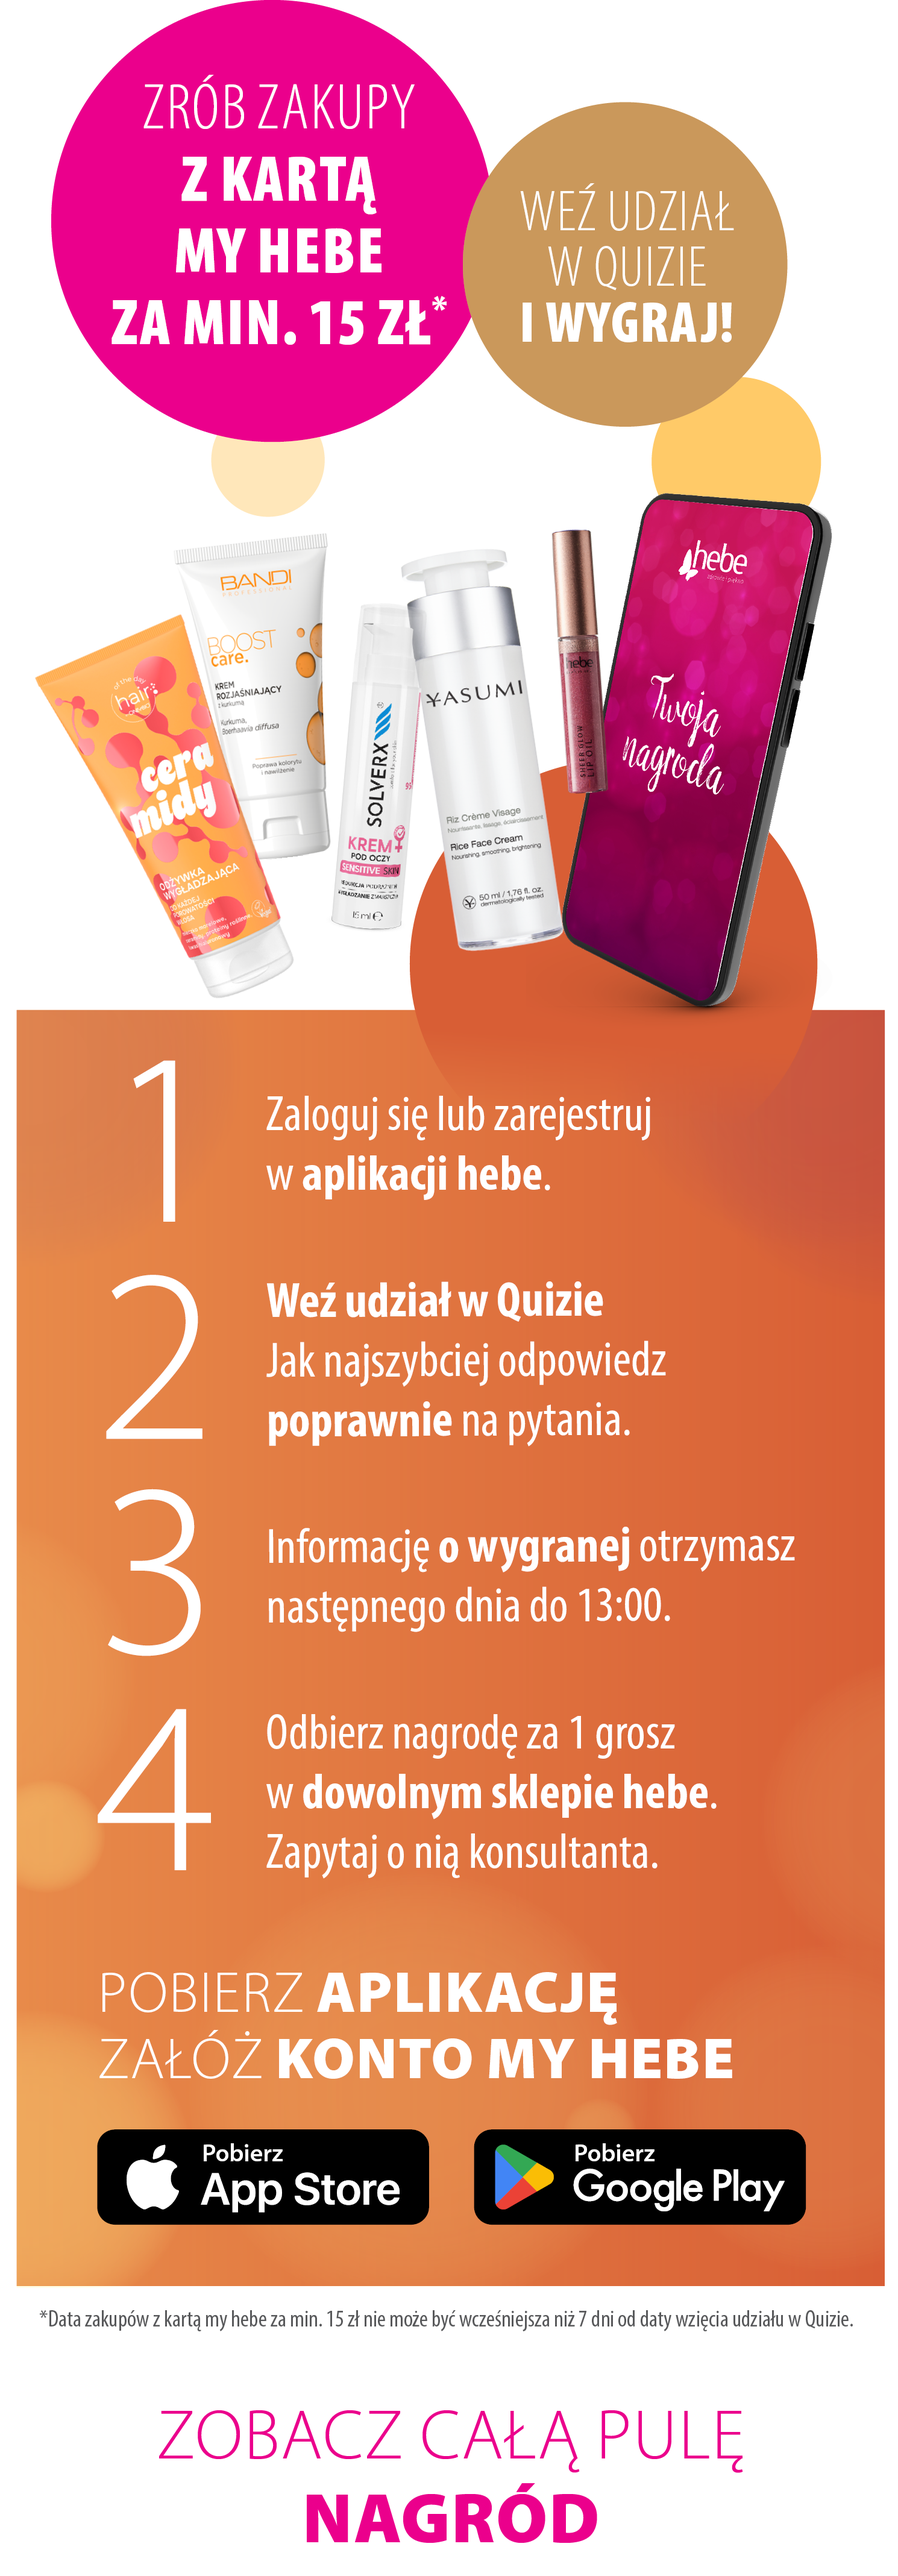
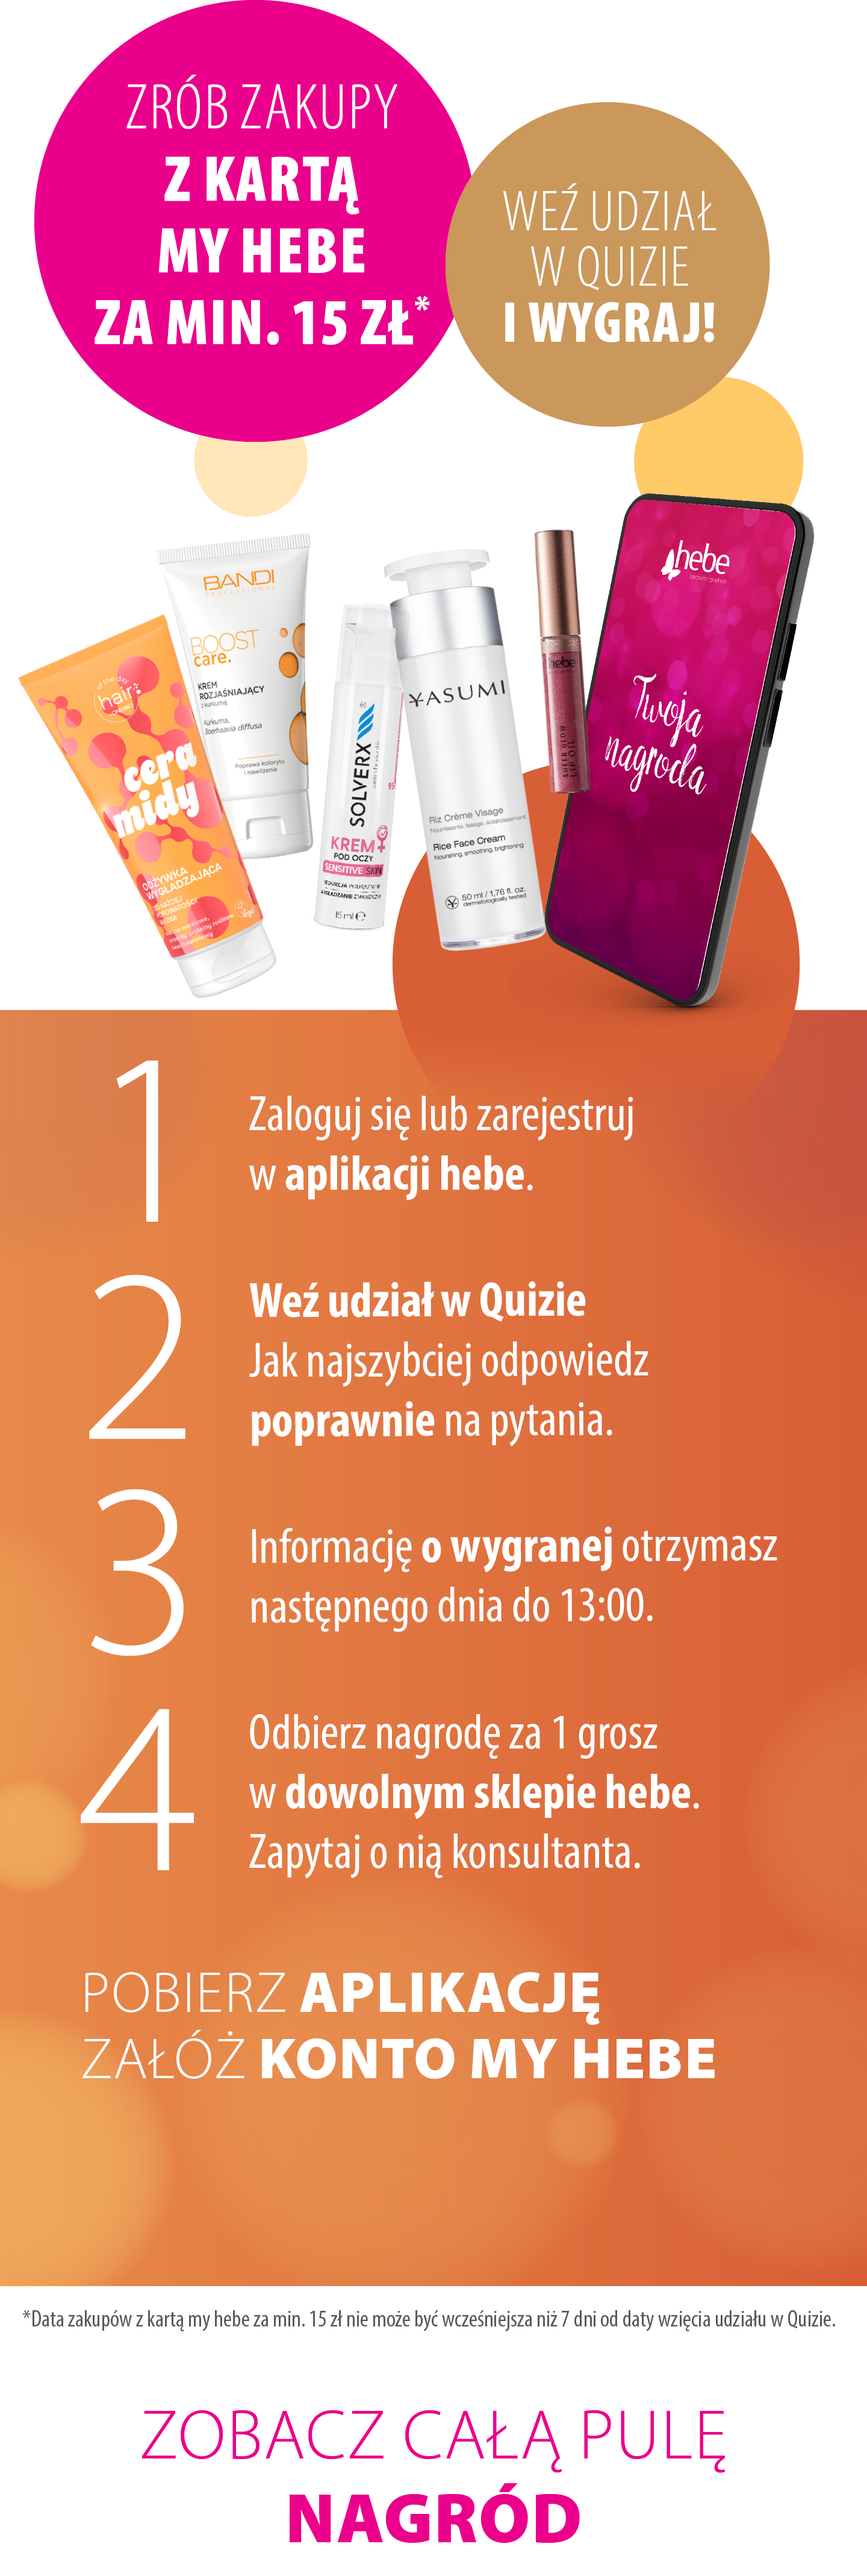
all images added to slide show, prepared to desktop and mobile

diff --git a/landingPageQuiz.html b/landingPageQuiz.html
@@ -8,6 +8,14 @@
     <div class="mainBox">
     </div>
     <div class="secondBox">
+        <div class="downloadButtons">
+            <a href="https://apps.apple.com/pl/app/hebe-zdrowie-i-pi%C4%99kno/id1502417997?l=pl">
+            <button id="dwn1btn"></button>
+            </a>
+            <a href="https://play.google.com/store/apps/details?id=pl.hebe.app&pli=1">
+            <button id="dwn2btn"></button>
+            </a>
+        </div>
     </div>
     <div class="slideshow-container">
         <div class="mySlides fade">
@@ -33,9 +41,111 @@
           <div class="mySlides fade">
             <img src="./images/plansze produktowe_QUIZ6.png" style="width:100%">
           </div>
+
+          <div class="mySlides fade">
+            <img src="./images/plansze produktowe_QUIZ7.png" style="width:100%">
+          </div>
+
+          <div class="mySlides fade">
+            <img src="./images/plansze produktowe_QUIZ8.png" style="width:100%">
+          </div>
+
+          <div class="mySlides fade">
+            <img src="./images/plansze produktowe_QUIZ9.png" style="width:100%">
+          </div>
+
+          <div class="mySlides fade">
+            <img src="./images/plansze produktowe_QUIZ10.png" style="width:100%" >
+          </div>
+        
+          <div class="mySlides fade">
+            <img src="./images/plansze produktowe_QUIZ11.png" style="width:100%" >
+          </div>
+        
+          <div class="mySlides fade">
+            <img src="./images/plansze produktowe_QUIZ12.png" style="width:100%">
+          </div>
+        
+          <div class="mySlides fade">
+            <img src="./images/plansze produktowe_QUIZ13.png" style="width:100%">
+          </div>
+
+          <div class="mySlides fade">
+            <img src="./images/plansze produktowe_QUIZ14.png" style="width:100%">
+          </div>
+
+          <div class="mySlides fade">
+            <img src="./images/plansze produktowe_QUIZ15.png" style="width:100%">
+          </div>
+
+          <div class="mySlides fade">
+            <img src="./images/plansze produktowe_QUIZ16.png" style="width:100%">
+          </div>
+
+          <div class="mySlides fade">
+            <img src="./images/plansze produktowe_QUIZ17.png" style="width:100%">
+          </div>
+
+          <div class="mySlides fade">
+            <img src="./images/plansze produktowe_QUIZ18.png" style="width:100%">
+          </div>
+
+          <div class="mySlides fade">
+            <img src="./images/plansze produktowe_QUIZ19.png" style="width:100%">
+          </div>
+
+          <div class="mySlides fade">
+            <img src="./images/plansze produktowe_QUIZ20.png" style="width:100%" >
+          </div>
+        
+          <div class="mySlides fade">
+            <img src="./images/plansze produktowe_QUIZ21.png" style="width:100%" >
+          </div>
+        
+          <div class="mySlides fade">
+            <img src="./images/plansze produktowe_QUIZ22.png" style="width:100%">
+          </div>
+        
+          <div class="mySlides fade">
+            <img src="./images/plansze produktowe_QUIZ23.png" style="width:100%">
+          </div>
+
+          <div class="mySlides fade">
+            <img src="./images/plansze produktowe_QUIZ24.png" style="width:100%">
+          </div>
+
+          <div class="mySlides fade">
+            <img src="./images/plansze produktowe_QUIZ25.png" style="width:100%">
+          </div>
+
+          <div class="mySlides fade">
+            <img src="./images/plansze produktowe_QUIZ26.png" style="width:100%">
+          </div>
+
+          <div class="mySlides fade">
+            <img src="./images/plansze produktowe_QUIZ27.png" style="width:100%">
+          </div>
+
+          <div class="mySlides fade">
+            <img src="./images/plansze produktowe_QUIZ28.png" style="width:100%">
+          </div>
+
+          <div class="mySlides fade">
+            <img src="./images/plansze produktowe_QUIZ29.png" style="width:100%">
+          </div>
+
+          <div class="mySlides fade">
+            <img src="./images/plansze produktowe_QUIZ30.png" style="width:100%">
+          </div>
+
+          <div class="mySlides fade">
+            <img src="./images/plansze produktowe_QUIZ31.png" style="width:100%">
+          </div>
           
           <a class="prev" onclick="plusSlides(-1)">&#10094;</a>
           <a class="next" onclick="plusSlides(1)">&#10095;</a>
+    </div>
+    <div class="footer">
     </div>
 
 </div>

diff --git a/styles.css b/styles.css
@@ -12,12 +12,16 @@ body {
 }
 
 .landingpageContainer .secondBox {
-    background-image: url('./images/lp/grafika\ 1.png');
+    background-image: url('./images/lp/grafika1.png');
     background-repeat: no-repeat;
     background-size: 100%;
-    margin: 0vw 20vw;
+    margin: 0vw 14vw;
     padding: 0;
-    height: 60vw;
+    height: 70vw;
+}
+
+.landingpageContainer .secondBox .downloadButtons {
+    display: none;
 }
 
 .landingpageContainer {box-sizing:border-box}
@@ -26,13 +30,13 @@ body {
     vertical-align: middle;
 }
 
-/* .mySlides {display: none} */
-
 .slideshow-container {
-    max-width: 60vw;
+    max-width: 72vw;
     position: relative;
     margin: auto;
     overflow: hidden;
+    display: flex;
+    justify-content: space-around;
   }
 
   .prev, .next {
@@ -40,53 +44,119 @@ body {
     position: absolute;
     top: 50%;
     width: auto;
-    margin-top: -4vw;
-    padding: 2.6vw 4vw;
+    padding: 2vw 2vw;
     color: black;
-    font-weight: bold;
-    font-size: 3vw;
+    font-size: 2vw;
     transition: 0.6s ease;
     border-radius: 20vw;
     user-select: none;
-  }
+    margin: -3.4vw 6vw;
+}
+
 
   .next {
-    right: 0;
-    border-radius: 20vw;
-  }
+    right: -7.2vw;
+}
 
-  .prev:hover, .next:hover {
-    background-color: rgba(236, 236, 236, 0.8);
-  }
+.prev {
+    left: -7.2vw;
+}
 
 .mySlides {
     display: none;
   }
 
-  .fade {
-    animation-name: fade;
-    animation-duration: 1.5s;
+  .landingpageContainer .footer {
+    background-image: url('./images/lp/stopka.png');
+    background-repeat: no-repeat;
+    background-size: 100%;
+    margin: 4vw 14vw;
+    padding: 0;
+    height: 44vw;
+}
+
+  @media only screen and (max-width: 600px) {
+    .landingpageContainer .mainBox {
+        background-image: url('./images/mobile/baner.png');
+        height: 114vw;
+    }
+
+    .landingpageContainer .secondBox {
+        background-image: url('./images/mobile/grafika1.png');
+        background-repeat: no-repeat;
+        background-size: 100%;
+        margin: 0;
+        height: 290vw;
+        display:flex;
+        justify-content: center;
+    }
+
+    .landingpageContainer .secondBox .downloadButtons {
+        display: inline-flex;
+        justify-content: center;
+        visibility: visible;
+        margin-top: 238vw;
+        margin-bottom: 40vw;
+    }
+
+    .landingpageContainer .secondBox .downloadButtons a {
+        height: 10vw;
+    }
+
+    .landingpageContainer .secondBox .downloadButtons #dwn1btn {
+        background-image: url('./images/mobile/APP_STORE.png');
+        border-radius: 0px;
+        height: 12vw;
+        width: 36vw;
+        background-size: 100%;
+        border: none;  
+        cursor: pointer;
+        background-repeat: no-repeat;
+        margin: 0vw 4vw 4vw 0;
+        background-color: transparent;
+    }
+
+    .landingpageContainer .secondBox .downloadButtons #dwn2btn {
+        background-image: url('./images/mobile/GOOGLE_PLAY.png');
+        border-radius: 0px;
+        height: 12vw;
+        width: 36vw;
+        background-size: 100%;
+        border: none;  
+        cursor: pointer;
+        background-repeat: no-repeat;
+        margin: 0vw 4vw 4vw 0;
+        background-color: transparent;
+    }
+
+    .slideshow-container {
+        max-width: 80vw;
+      }
+
+    .prev, .next,.text {font-size: 4vw}
+
+    .landingpageContainer .footer {
+        background-image: url('./images/mobile/stopka.png');
+        background-repeat: no-repeat;
+        background-size: 100%;
+        margin: 6vw 0vw;
+        padding: 0;
+        height: 110vw;
+    }
+
+    .fade {
+        animation-name: fade;
+        animation-duration: 1.5s;
+      }
+      
+      @keyframes fade {
+        from {opacity: 0.4}
+        to {opacity: 1}
+      }
   }
-  
-  @keyframes fade {
-    from {opacity: .4}
-    to {opacity: 1}
+
+  @media only screen and (max-width: 300px) {
+    .landingpageContainer .secondBox .downloadButtons {
+        margin-top: 230vw;
+    }
   }
-
-  /* @media only screen and (max-width: 600px) {
-    .prev, .next,.text {font-size: 11px}
-  } */
-
-  /* @media only screen and (max-width: 600px) {
-    .prev, .next, .text {
-        font-size: 11px;
-    }
-
-    .mySlides {
-        display: none !important;
-    }
-
-    .mySlides:nth-child(1) {
-        display: block !important;
-    }
-} */

diff --git a/index.js b/index.js
@@ -1,12 +1,10 @@
 let slideIndex = 1;
 showSlides(slideIndex);
 
-// Next/previous controls
 function plusSlides(n) {
   showSlides(slideIndex += n);
 }
 
-// Thumbnail image controls
 function currentSlide(n) {
   showSlides(slideIndex = n);
 }
@@ -14,34 +12,20 @@ function currentSlide(n) {
 function showSlides(n) {
   let i;
   let slides = document.getElementsByClassName("mySlides");
-  if (n > slides.length) {slideIndex = 1}
-  if (n < 1) {slideIndex = slides.length}
+  let slidesToShow = window.innerWidth > 600 ? 3 : 1;
+
+  if (n > slides.length - slidesToShow + 1) {slideIndex = 1}
+  if (n < 1) {slideIndex = slides.length - slidesToShow + 1}
+
   for (i = 0; i < slides.length; i++) {
     slides[i].style.display = "none";
   }
-  slides[slideIndex-1].style.display = "block";
+
+  for (i = 0; i < slidesToShow; i++) {
+    slides[(slideIndex - 1 + i) % slides.length].style.display = "flex";
+  }
 }
 
-// let slideIndex = 0;
-// const slidesToShow = window.innerWidth > 600 ? 3 : 1;
-// const slides = document.getElementsByClassName('mySlides');
-// const totalSlides = slides.length;
-
-// function showSlides(n) {
-//     const slideWrapper = document.querySelector('.slideshow-wrapper');
-//     slideIndex = (n + totalSlides) % totalSlides;
-//     slideWrapper.style.transform = `translateX(-${slideIndex * (100 / slidesToShow)}%)`;
-// }
-
-// function plusSlides(n) {
-//     showSlides(slideIndex + n);
-// }
-
-// window.addEventListener('resize', () => {
-//     const newSlidesToShow = window.innerWidth > 600 ? 3 : 1;
-//     if (newSlidesToShow !== slidesToShow) {
-//         location.reload(); // Reload to reset the layout
-//     }
-// });
-
-// showSlides(slideIndex);
+window.addEventListener('resize', () => {
+  showSlides(slideIndex);
+});
